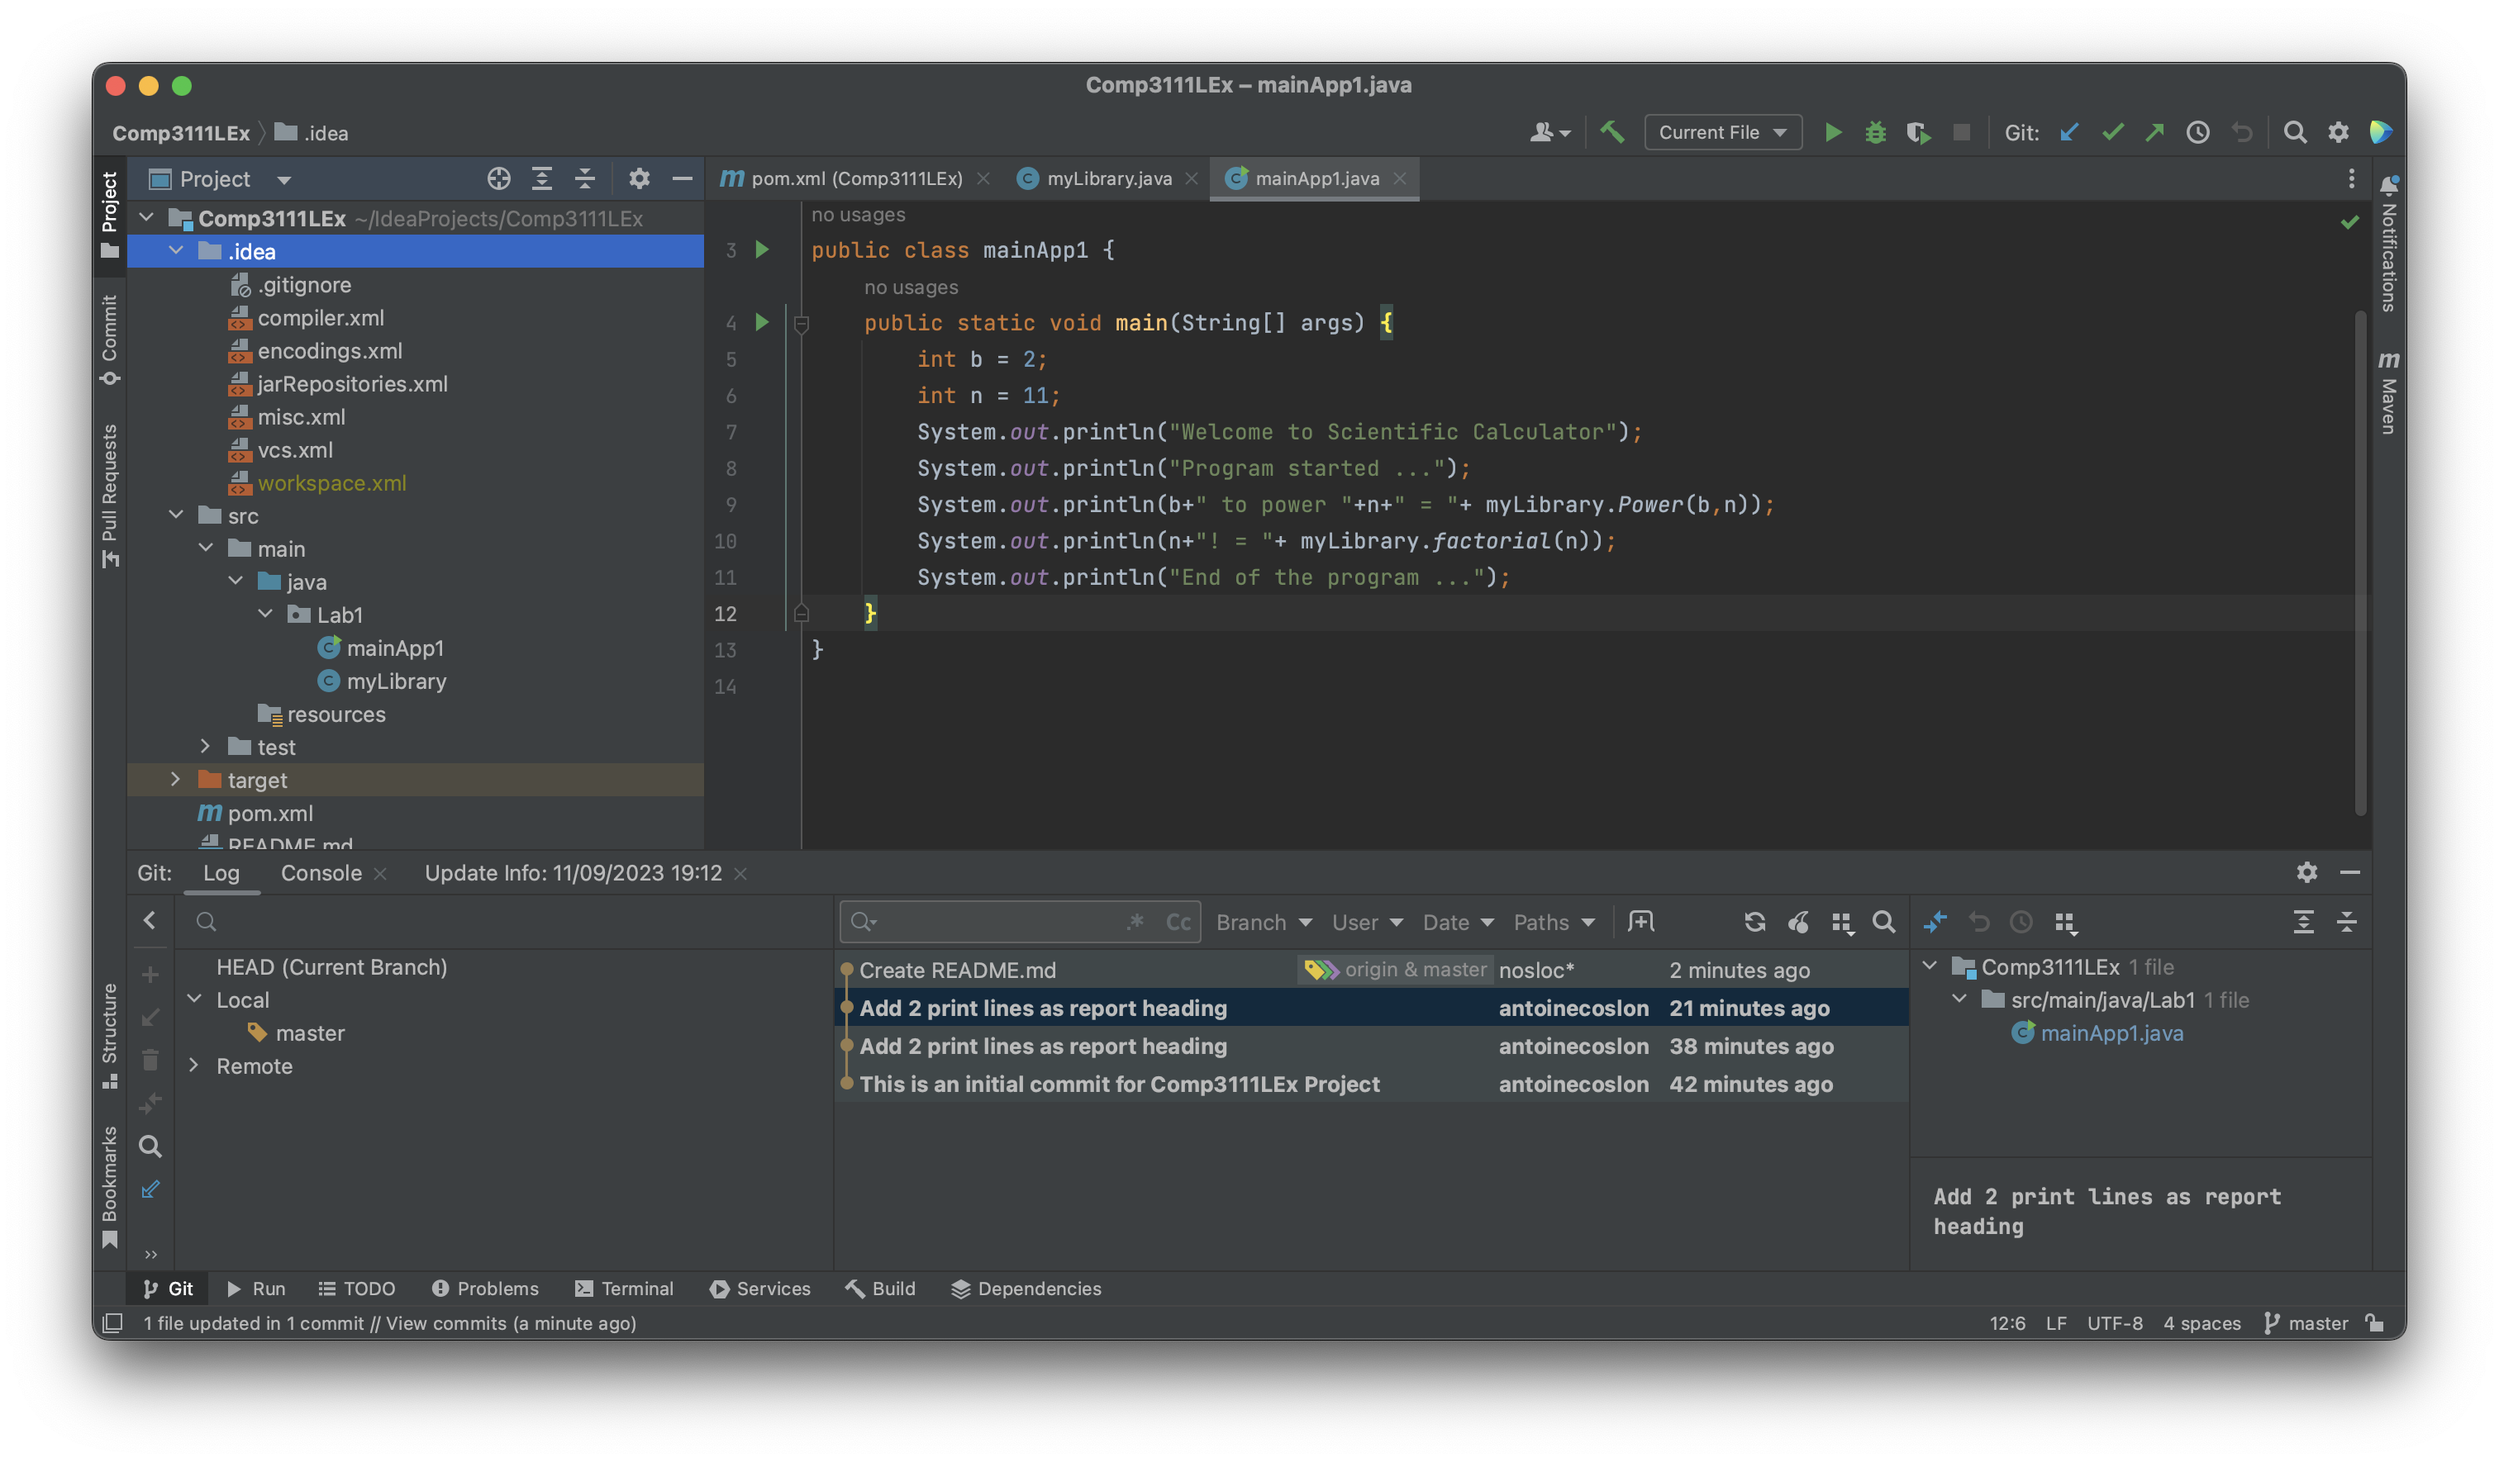
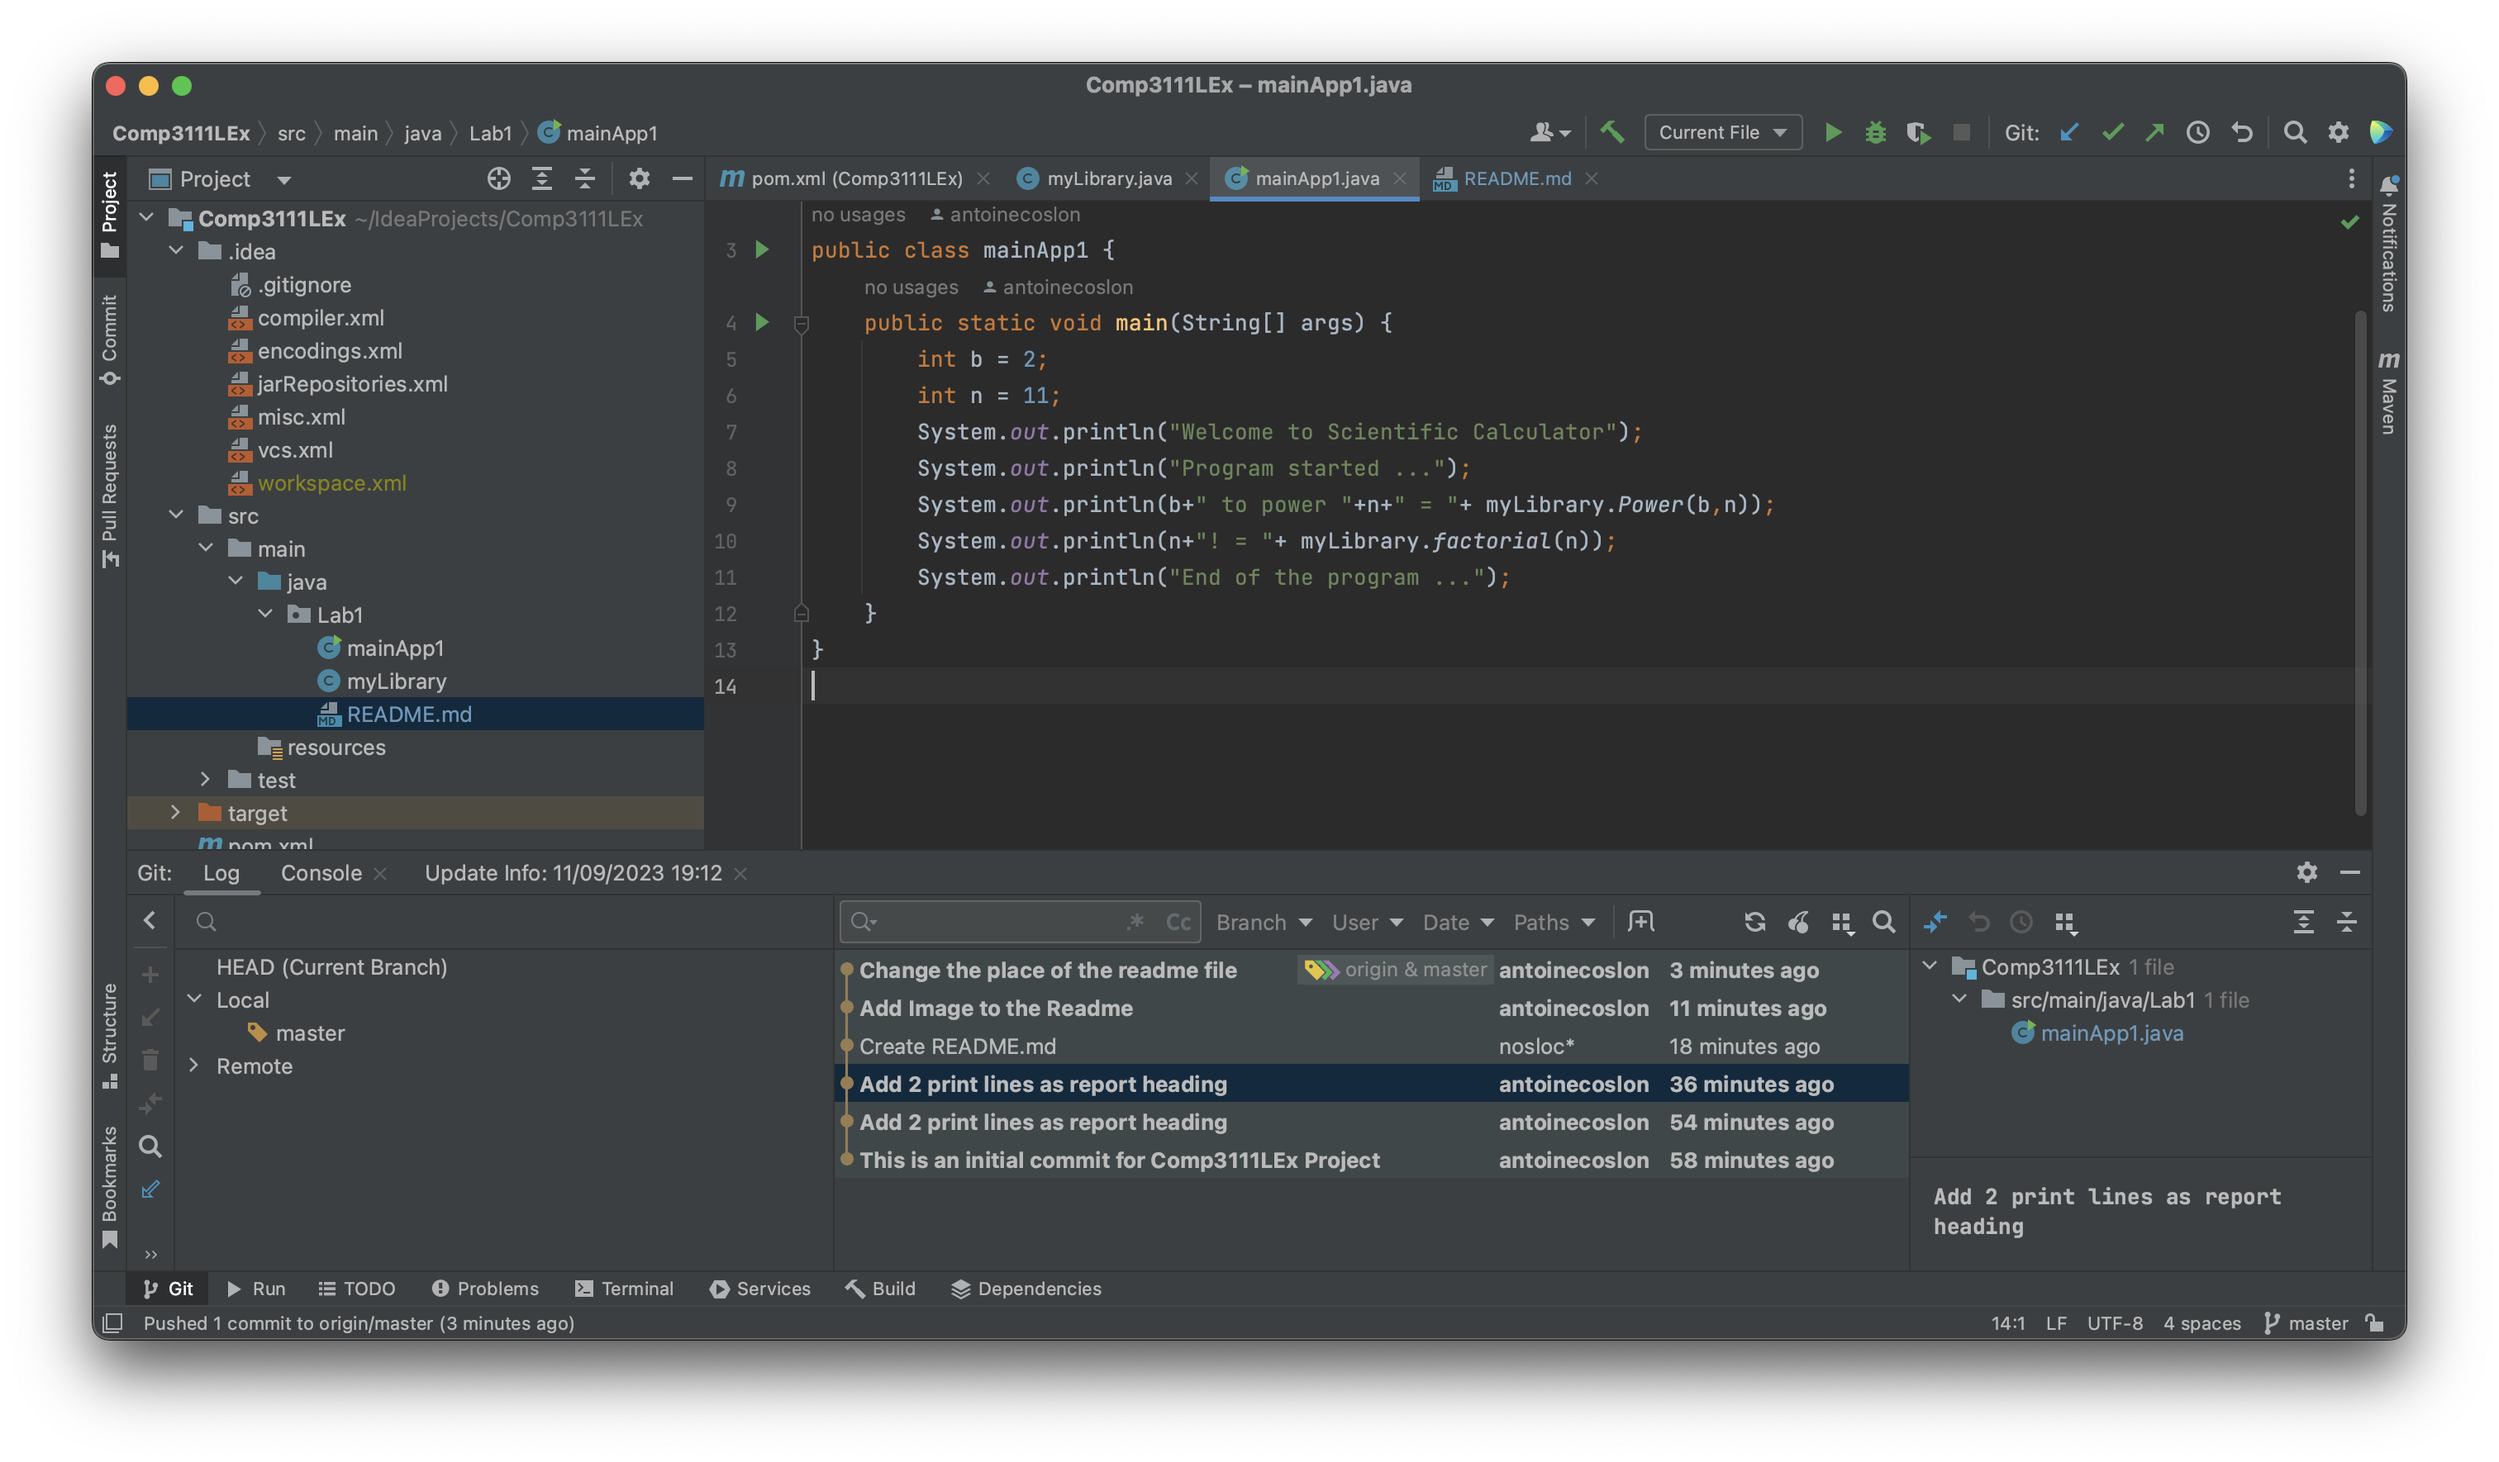
update the screenshot and move the readme

diff --git a/src/main/java/Lab1/README.md b/src/main/java/Lab1/README.md
@@ -1,4 +1,4 @@
 # Comp3111LEx
 
 This is the repository for software engeenering course at HKUST (autumn 2023-24)  
-![Screenshot](Screenshot.png)
+![Screenshot](../Screenshot.png)
